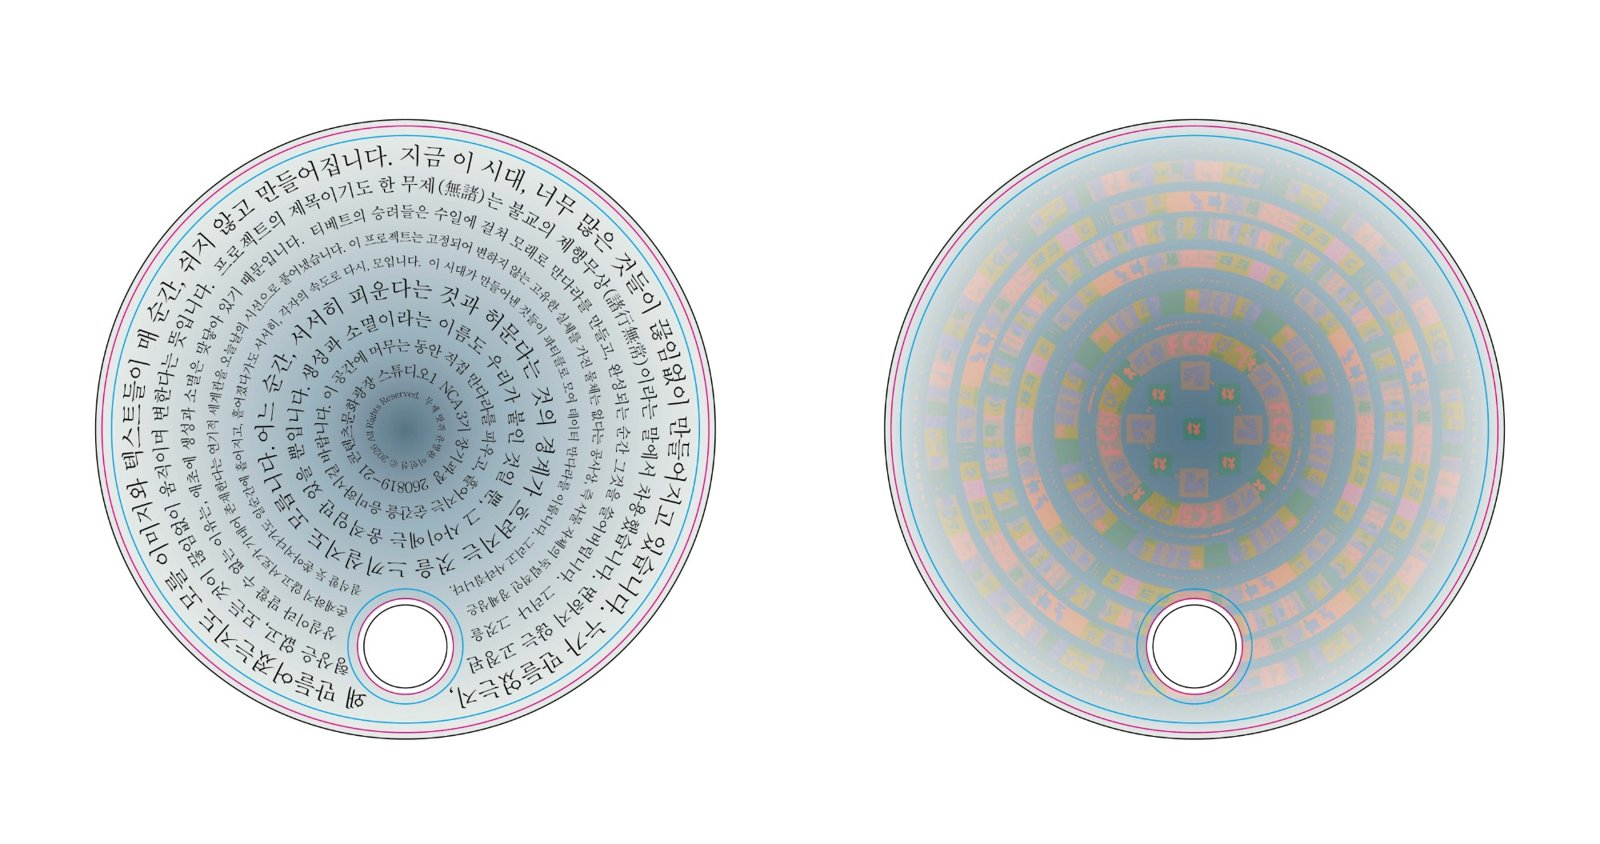
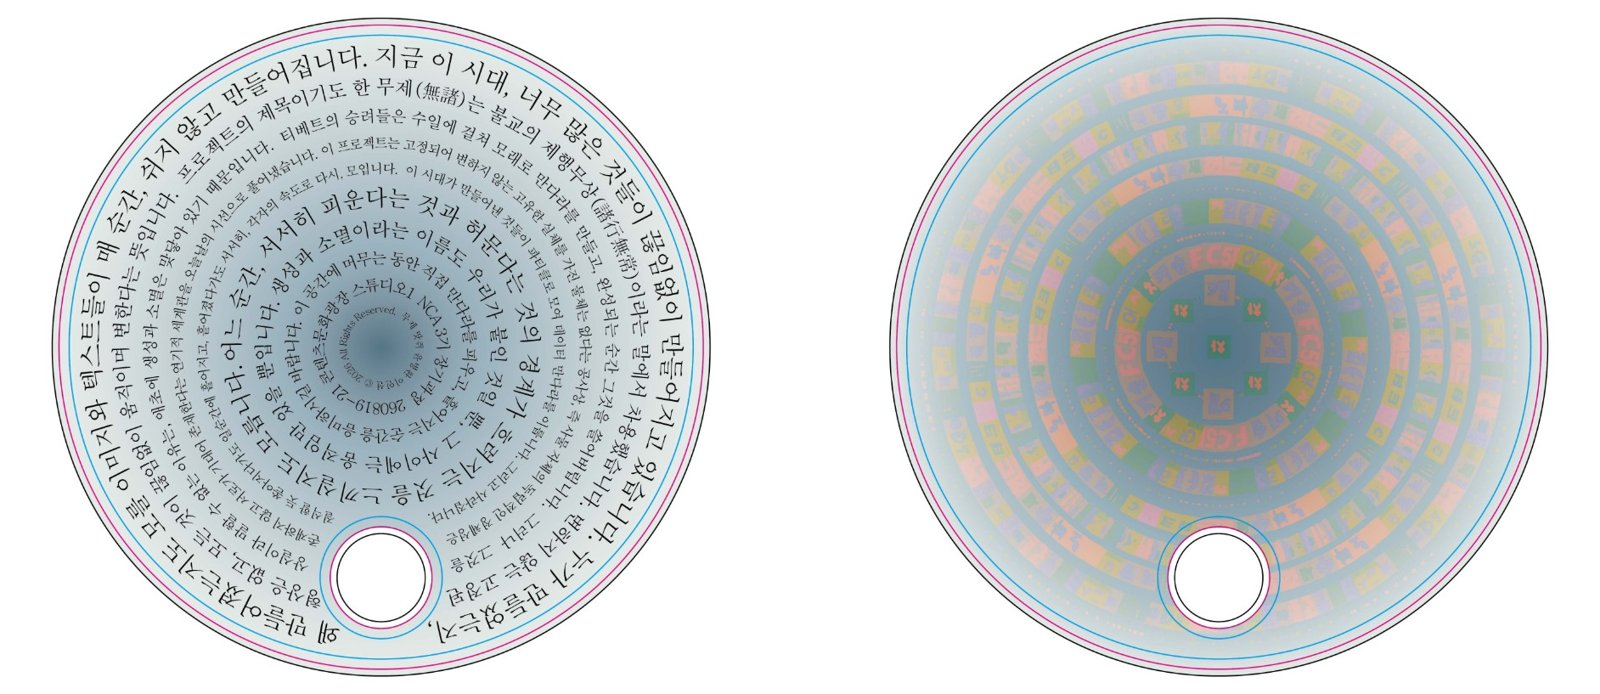
무제 부채 이미지 여백 줄여 붙이기

diff --git a/index.html b/index.html
@@ -332,6 +332,7 @@ footer h2{font-size:clamp(40px,6vw,72px);font-weight:700;letter-spacing:-.035em;
 #beeing .side .grid.pair{grid-template-columns:1fr 1fr;gap:12px;margin-top:24px}#beeing .side .grid.pair img{aspect-ratio:3/4;object-fit:cover;width:100%;height:auto}
 .reel a[href="#beeing"]{justify-self:start;width:70.3%}
 @media(max-width:860px){#eddie .s3 .body>.sec-reels{order:10}#eddie .s3 .side>.m-carou,#eddie .s3 .side>.m-carou~*{order:11}#eddie .s3 .body>.sec-carou{order:12}#eddie>.pager,#eddie>.strip{order:20}}
+#muje .side .media.fan+.media.fan{margin-top:6px!important}
 </style>
 </head>
 <body>
@@ -748,9 +749,9 @@ footer h2{font-size:clamp(40px,6vw,72px);font-weight:700;letter-spacing:-.035em;
     <div class="side">
       <div class="media"><img src="img/muje/goods-zone.jpg" alt="무제 굿즈존"></div>
       <p class="cap">굿즈존 · 공간이 허락하는 자리에 작게 마련한 원형 부채 전시대</p>
-      <div class="media"><img src="img/muje/fan-1.jpg" alt="원형 부채 앞뒷면 — 전단지 버전"></div>
-      <div class="media"><img src="img/muje/fan-3.jpg" alt="원형 부채 앞뒷면 — 간판 버전"></div>
-      <div class="media"><img src="img/muje/fan-2.jpg" alt="원형 부채 앞뒷면 — 만다라 버전"></div>
+      <div class="media fan"><img src="img/muje/fan-1.jpg?v=2" alt="원형 부채 앞뒷면 — 전단지 버전"></div>
+      <div class="media fan"><img src="img/muje/fan-3.jpg?v=2" alt="원형 부채 앞뒷면 — 간판 버전"></div>
+      <div class="media fan"><img src="img/muje/fan-2.jpg?v=2" alt="원형 부채 앞뒷면 — 만다라 버전"></div>
       <p class="cap">원형 부채 3종 · 앞면은 작품 설명을 나선형으로, 뒷면은 전단지·간판 만다라 장면</p>
     </div>
   <div class="body">
